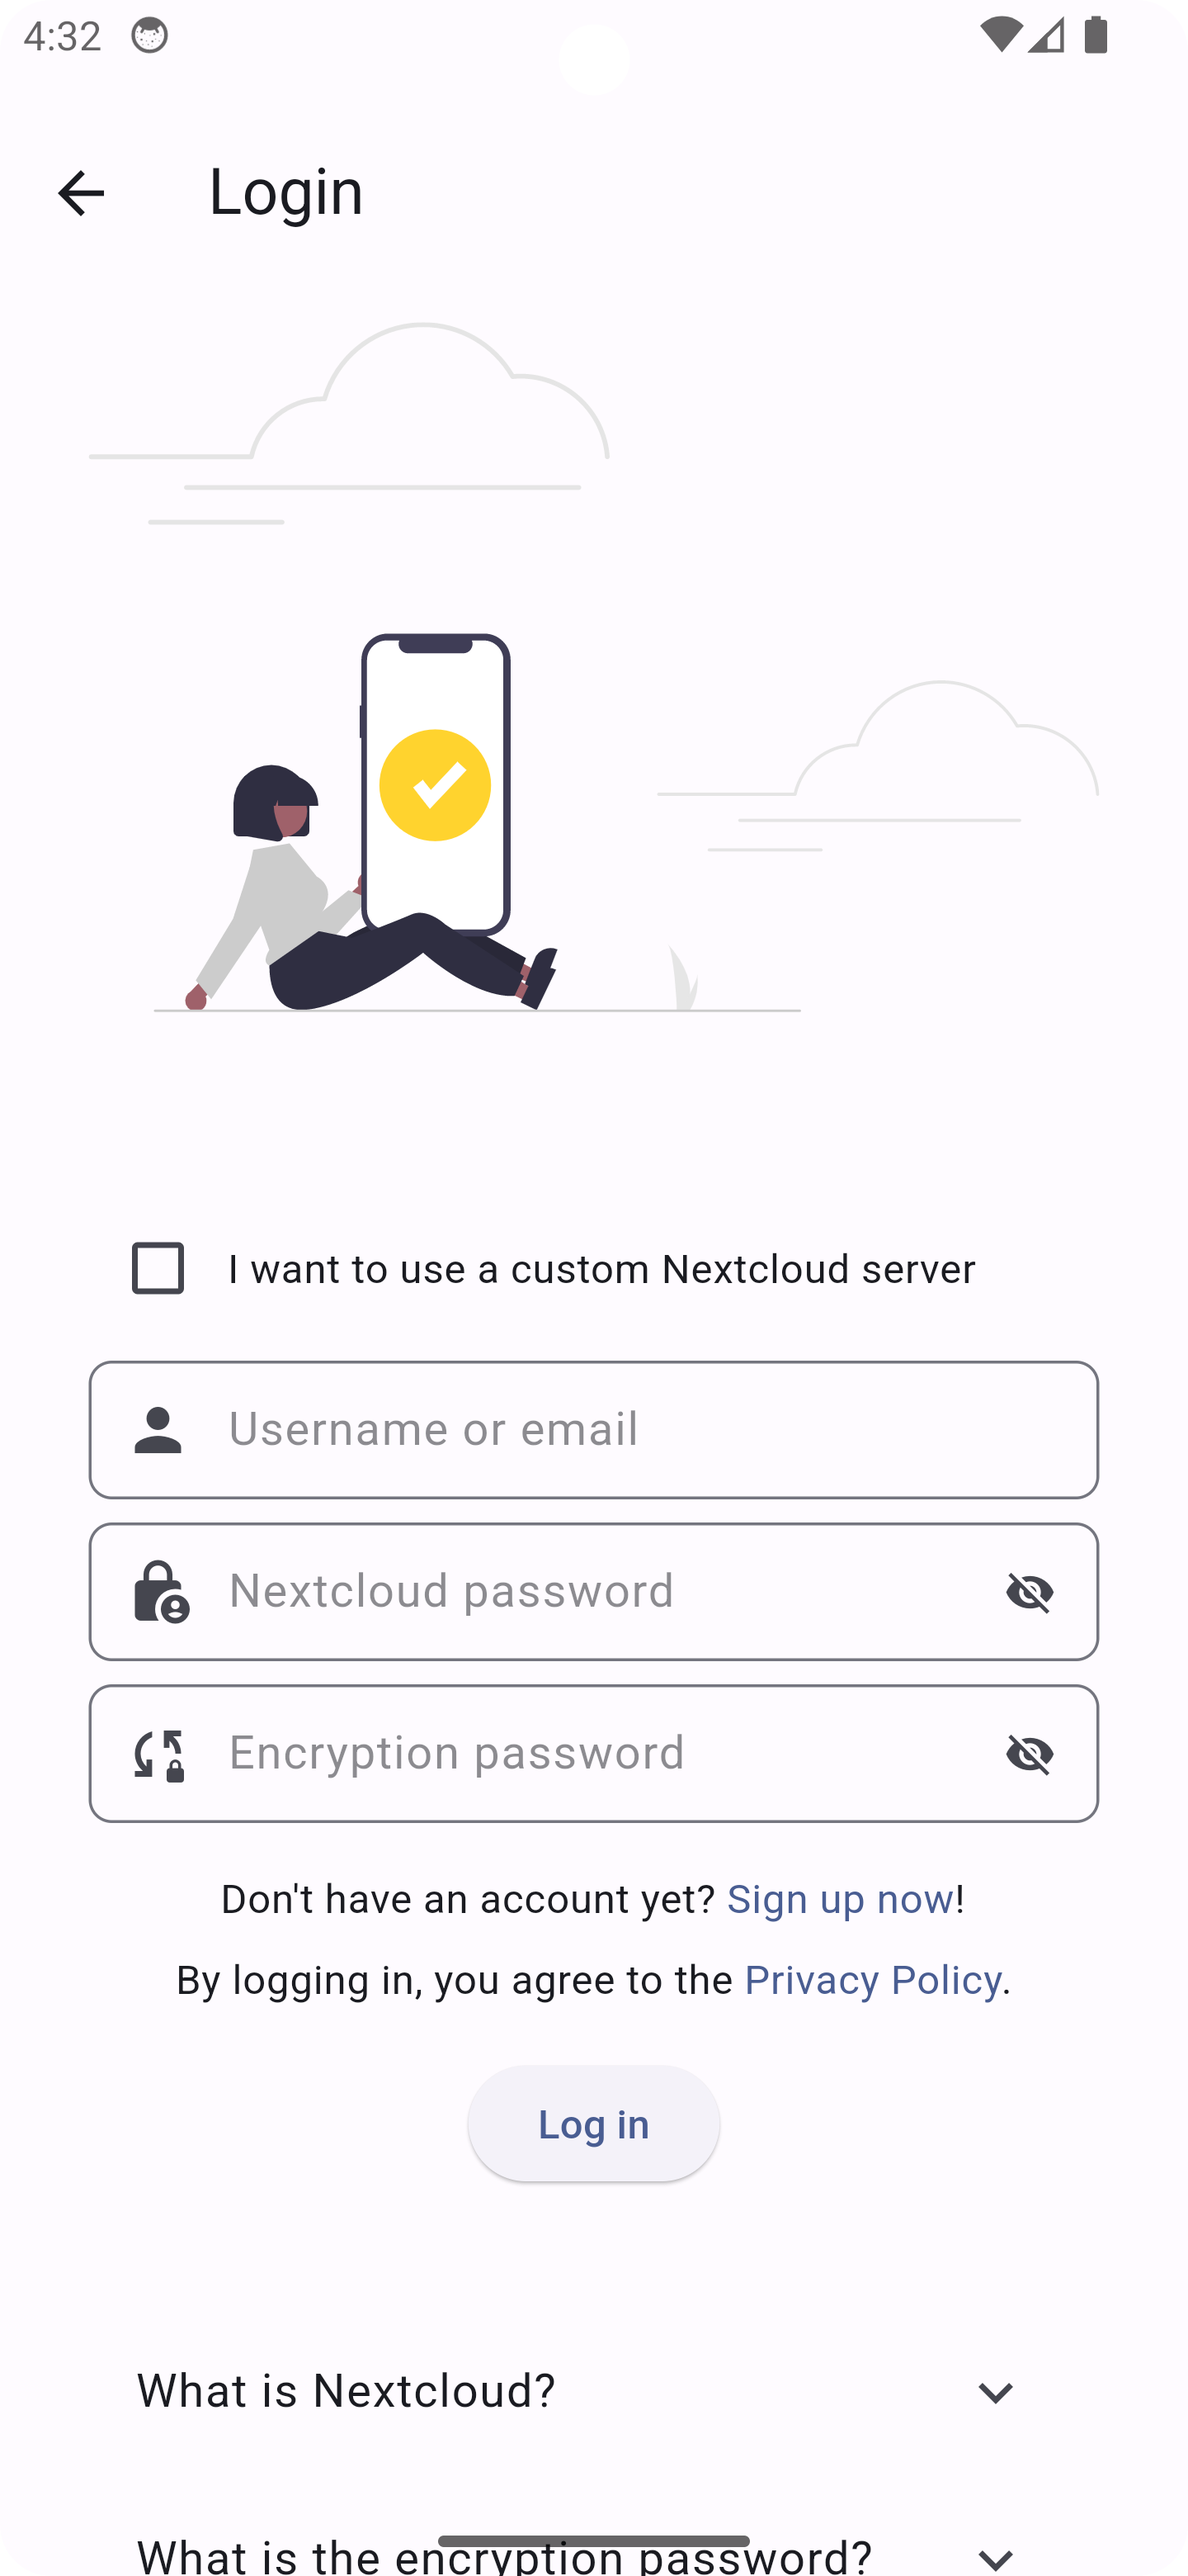
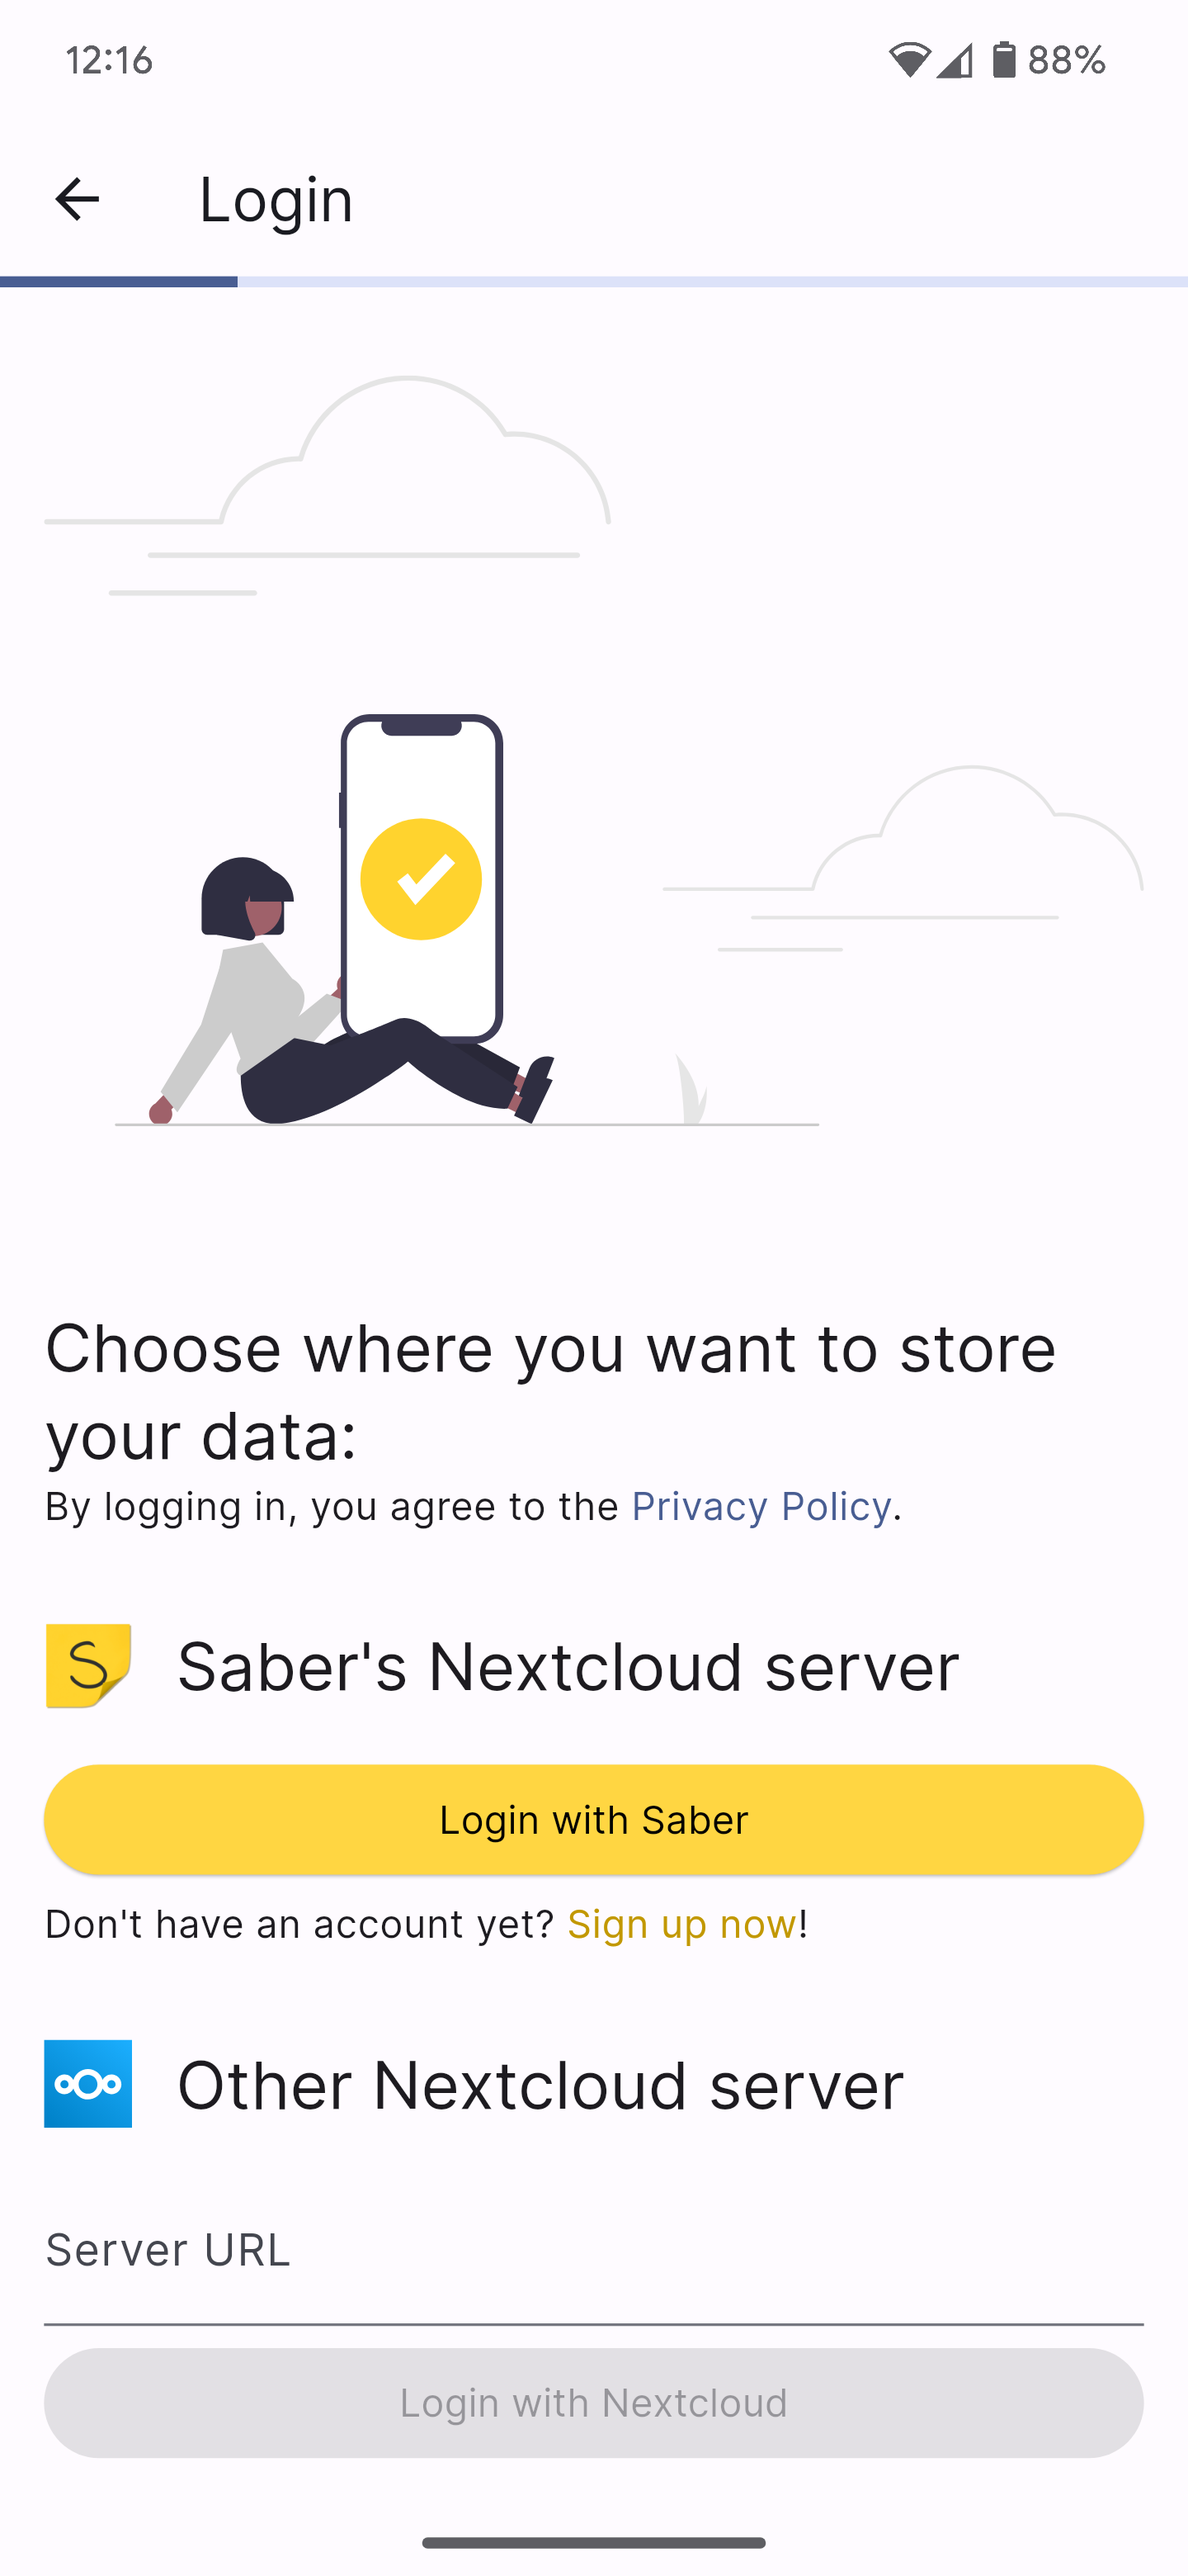
chore: automate login screenshots

diff --git a/lib/pages/user/login.dart b/lib/pages/user/login.dart
@@ -7,7 +7,13 @@ import 'package:saber/data/prefs.dart';
 import 'package:saber/i18n/strings.g.dart';
 
 class NcLoginPage extends StatefulWidget {
-  const NcLoginPage({super.key});
+  const NcLoginPage({
+    super.key,
+    @visibleForTesting this.forceAppBarLeading = false,
+  });
+
+  /// Whether to force the AppBar to have a leading back button
+  final bool forceAppBarLeading;
 
   static final Uri signupUrl = Uri.parse(
       'https://nc.saber.adil.hanney.org/index.php/apps/registration/');
@@ -86,6 +92,12 @@ class _NcLoginPageState extends State<NcLoginPage> {
           LoginStep.done => t.profile.title,
           _ => t.login.title,
         }),
+        leading: widget.forceAppBarLeading
+            ? IconButton(
+                icon: const Icon(Icons.arrow_back),
+                onPressed: () => Navigator.of(context).pop(),
+              )
+            : null,
         bottom: PreferredSize(
           preferredSize: const Size.fromHeight(4),
           child: LinearProgressIndicator(

diff --git a/test/screenshot_goldens_test.dart b/test/screenshot_goldens_test.dart
@@ -17,6 +17,7 @@ import 'package:saber/data/prefs.dart';
 import 'package:saber/i18n/strings.g.dart';
 import 'package:saber/pages/editor/editor.dart';
 import 'package:saber/pages/home/home.dart';
+import 'package:saber/pages/user/login.dart';
 import 'package:yaru/yaru.dart';
 
 import 'utils/test_mock_channel_handlers.dart';
@@ -94,6 +95,14 @@ void main() {
       goldenFileName: 'editor',
       child: Editor(
         path: '/Metric Spaces Week 1',
+      ),
+    );
+    _screenshot(
+      materialTheme: materialTheme,
+      yaruTheme: yaruTheme,
+      goldenFileName: 'login',
+      child: const NcLoginPage(
+        forceAppBarLeading: true,
       ),
     );
   });
